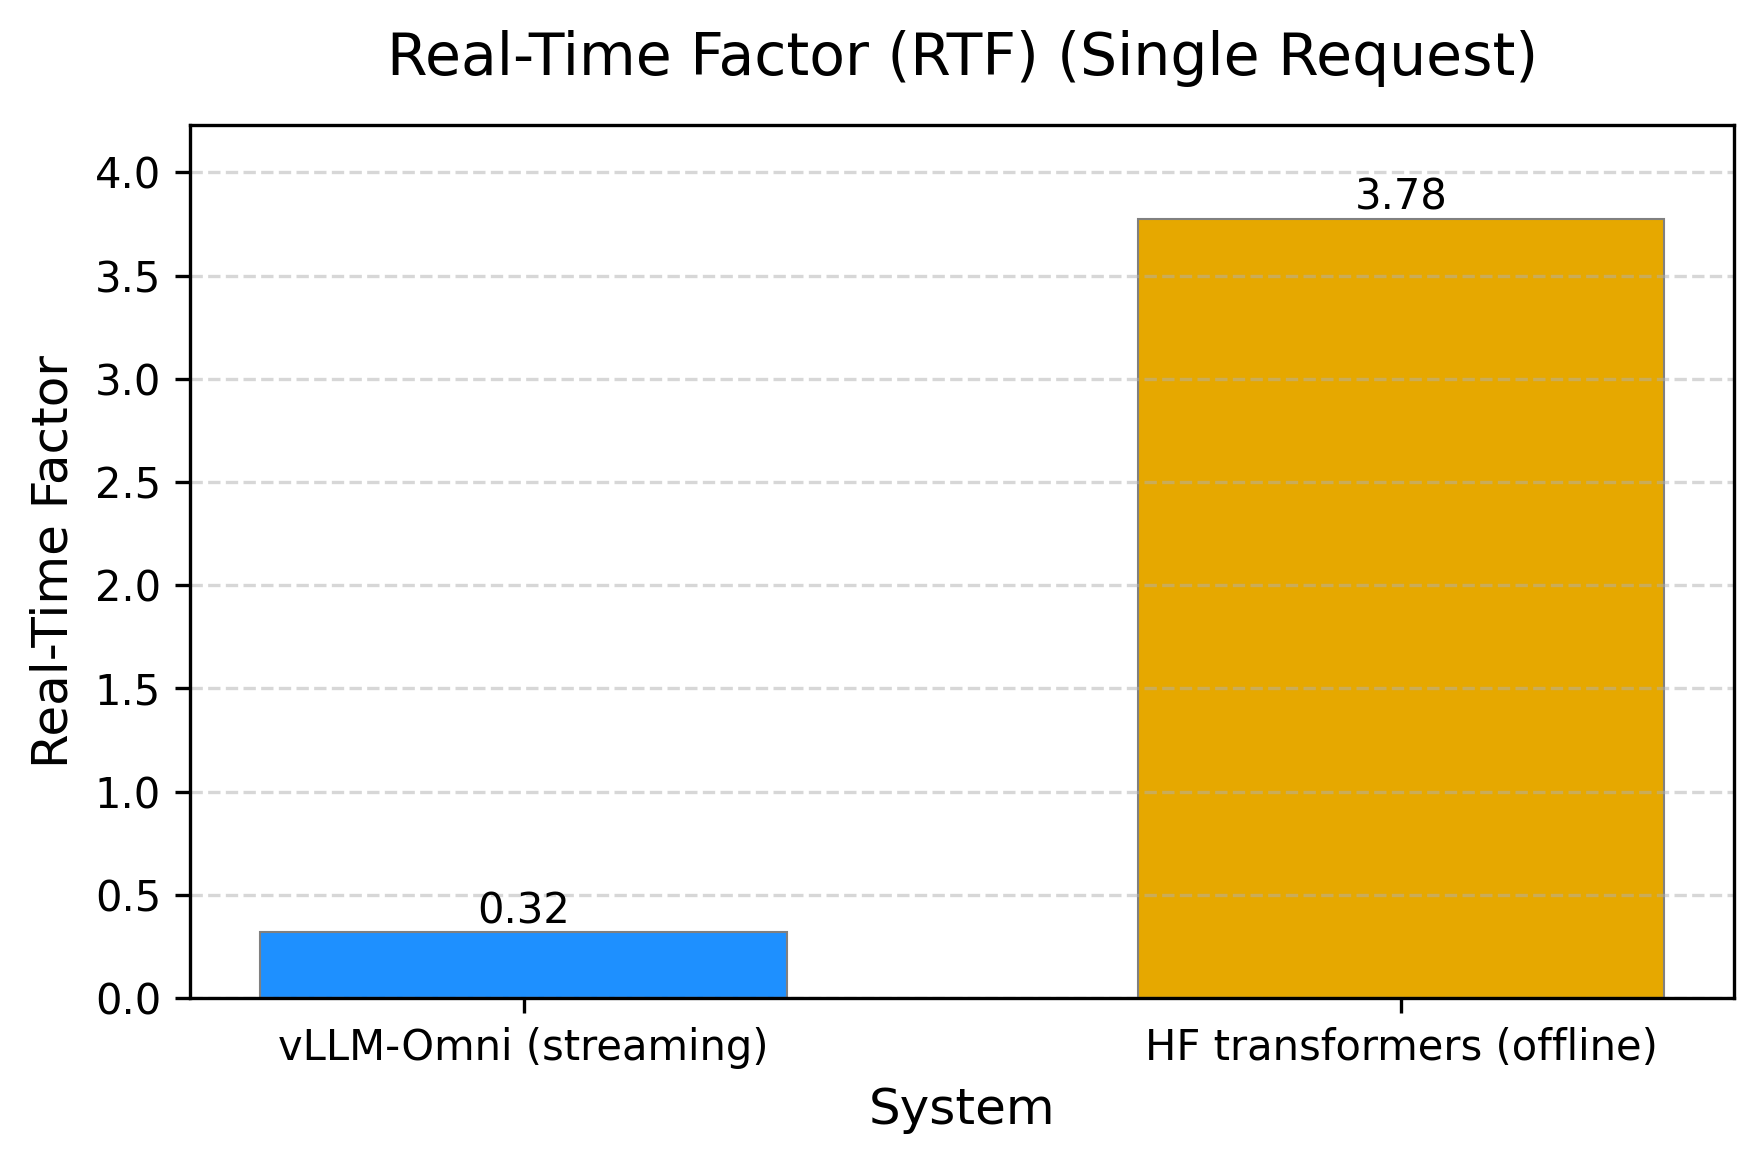
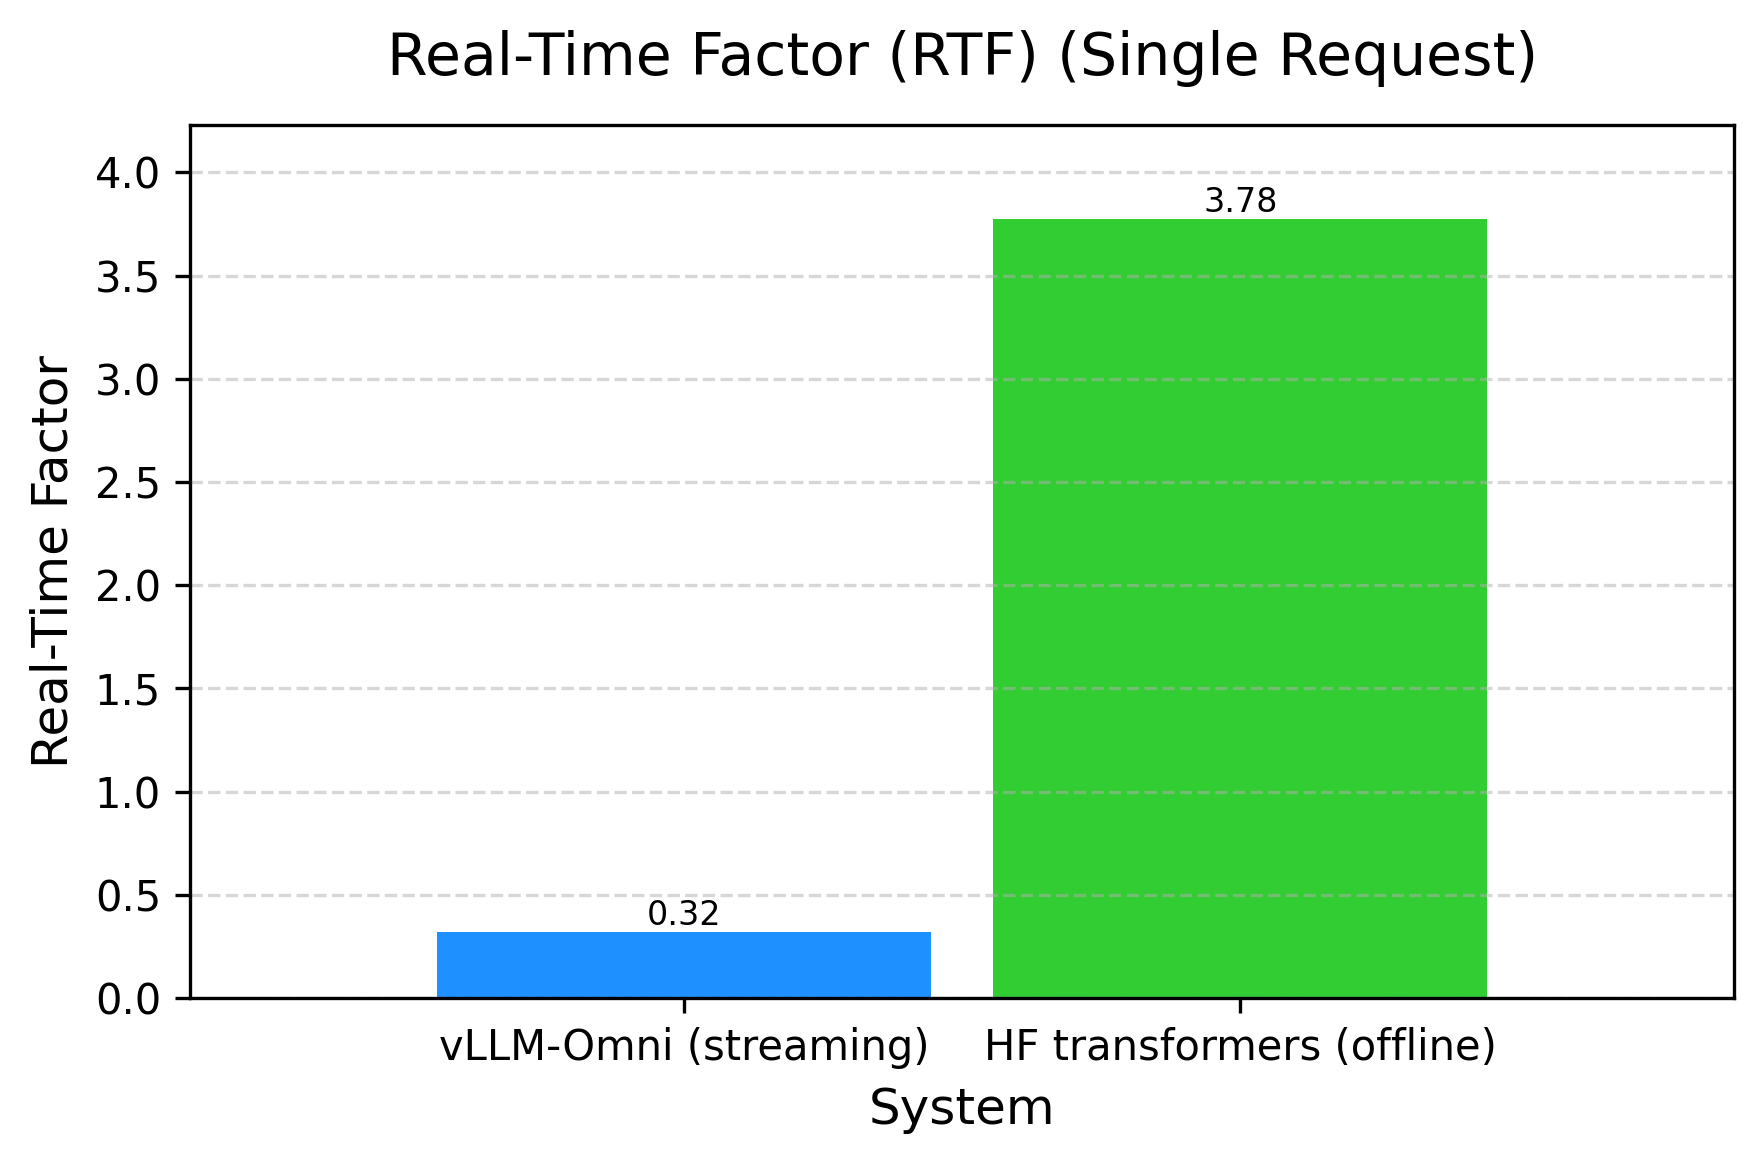
qwen3 omni blog

Changed region(s): [[0.5612, 0.1546, 0.9666, 0.9278], [0.1247, 0.7732, 0.53, 0.9278]]

diff --git a/docs/design/plot_summary_line_charts.py b/docs/design/plot_summary_line_charts.py
@@ -1,0 +1,106 @@
+# -*- coding: utf-8 -*-
+"""Generate summary line charts: E2EL / TTFP / RTF vs stacked features, with concurrency 1/4/10."""
+import matplotlib
+matplotlib.use("Agg")
+
+import matplotlib.pyplot as plt
+import numpy as np
+from pathlib import Path
+from matplotlib.ticker import FuncFormatter
+
+FIG_DIR = Path(__file__).resolve().parent / "figures"
+FIG_DIR.mkdir(parents=True, exist_ok=True)
+
+# 横轴：Baseline → Batch → CUDA Graph → Async Chunk + Streaming
+X_LABELS = ["Baseline", "Batch", "CUDA Graph", "Async Chunk\n+ Streaming Output"]
+x = np.arange(len(X_LABELS))
+
+# 与 plot_comparison 一致：蓝、绿，再加一色区分三条线
+COLORS = ["#1E90FF", "#32CD32", "#E67E22"]  # blue, green, orange
+MARKERS = ["o", "s", "^"]
+CONCURRENCIES = [1, 4, 10]
+
+# 按 (stage_order, concurrency) 从 plot_comparison 数据整理
+# stage 顺序: Baseline, Batch, Batch+CG, Async Chunk
+DATA = {
+    "E2EL_ms": {
+        1: [325865.36, 258556.1, 67381.19, 60435.5],
+        4: [988038.79, 259586.2, 98981.04, 90969.2],
+        10: [1523135.4, 262400.45, 153351.92, 130681.82],
+    },
+    "TTFP_ms": {
+        1: [325517.15, 258256.7, 67120.89, 1263.0],
+        4: [987707.63, 259342.8, 98678.91, 3174.99],
+        10: [1522803.53, 262157.5, 152792.3, 12262.39],
+    },
+    "RTF": {
+        1: [1.52, 1.48, 0.43, 0.33],
+        4: [6.66, 1.62, 0.46, 0.43],
+        10: [6.94, 2.18, 0.88, 0.74],
+    },
+}
+
+
+def y_formatter_ms(x_val, pos):
+    if x_val >= 1000:
+        return f"{x_val:,.0f}"
+    return f"{x_val:.2f}"
+
+
+def make_line_chart(ylabel, data_by_conc, unit_label, outpath, y_formatter=None):
+    fig, ax = plt.subplots(figsize=(6, 4))
+    all_vals = [v for vals in data_by_conc.values() for v in vals]
+    y_max = max(all_vals) * 1.12
+
+    for idx, conc in enumerate(CONCURRENCIES):
+        vals = data_by_conc[conc]
+        ax.plot(
+            x,
+            vals,
+            color=COLORS[idx],
+            marker=MARKERS[idx],
+            markersize=7,
+            linewidth=2,
+            label=f"Concurrency {conc}",
+        )
+    ax.set_xticks(x)
+    ax.set_xticklabels(X_LABELS)
+    ax.set_ylabel(ylabel, fontsize=12)
+    ax.set_xlabel("Stacked optimization", fontsize=12)
+    if y_formatter:
+        ax.yaxis.set_major_formatter(FuncFormatter(y_formatter))
+    ax.grid(axis="y", linestyle="--", alpha=0.5)
+    ax.set_ylim(0, y_max)
+    ax.legend(loc="upper right", fontsize=9, frameon=True)
+    plt.tight_layout()
+    plt.savefig(outpath, dpi=300, bbox_inches="tight")
+    plt.close()
+    print(f"Saved {outpath}")
+
+
+def main():
+    make_line_chart(
+        "End-to-End Latency (ms)",
+        DATA["E2EL_ms"],
+        "ms",
+        FIG_DIR / "Summary_E2EL_ms_vs_features.png",
+        y_formatter=y_formatter_ms,
+    )
+    make_line_chart(
+        "Time to First Audio (ms)",
+        DATA["TTFP_ms"],
+        "ms",
+        FIG_DIR / "Summary_TTFP_ms_vs_features.png",
+        y_formatter=y_formatter_ms,
+    )
+    make_line_chart(
+        "Real-Time Factor",
+        DATA["RTF"],
+        "",
+        FIG_DIR / "Summary_RTF_vs_features.png",
+    )
+    print("All summary line charts saved to docs/design/figures/")
+
+
+if __name__ == "__main__":
+    main()

diff --git a/docs/design/plot_vllm_omni_vs_transformers.py b/docs/design/plot_vllm_omni_vs_transformers.py
@@ -4,17 +4,26 @@ import matplotlib
 matplotlib.use("Agg")
 
 import matplotlib.pyplot as plt
+import numpy as np
 from pathlib import Path
 
-# vLLM-Omni blue, HF transformers yellow for clear contrast
-COLORS = ["#1E90FF", "#E6A800"]  # blue, yellow/amber
+# 与 plot_comparison.py 一致
+COLORS = ["#1E90FF", "#32CD32"]
 FIG_DIR = Path(__file__).resolve().parent / "figures"
 FIG_DIR.mkdir(parents=True, exist_ok=True)
+WIDTH = 0.32
+# 两柱间距调小：offset 小则两柱更近
+GAP = 0.04
+OFFSET = WIDTH / 2 + GAP / 2  # ≈0.18，两柱中心距 0.36
 
 
 def make_chart(title, ylabel, labels, values, outpath, use_log_scale=False):
     fig, ax = plt.subplots(figsize=(6, 4))
-    bars = ax.bar(labels, values, color=COLORS, width=0.6, edgecolor="gray", linewidth=0.5)
+    x_pos = np.array([-OFFSET, OFFSET])
+    bars = ax.bar(x_pos, values, width=WIDTH, color=COLORS)
+    ax.set_xticks(x_pos)
+    ax.set_xticklabels(labels)
+    ax.set_xlim(-0.5, 0.5)
     ax.set_title(title, fontsize=14, pad=12)
     ax.set_ylabel(ylabel, fontsize=12)
     ax.set_xlabel("System", fontsize=12)
@@ -38,7 +47,7 @@ def make_chart(title, ylabel, labels, values, outpath, use_log_scale=False):
             label,
             ha="center",
             va="bottom",
-            fontsize=10,
+            fontsize=8,
         )
     plt.tight_layout()
     plt.savefig(outpath, dpi=300, bbox_inches="tight")

diff --git a/plot_comparison.py b/plot_comparison.py
@@ -134,9 +134,11 @@ for g1, g2 in groups:
         plt.xticks(x, [1,4,10])
         plt.xlim(-0.6, 2.6)
 
-        # 图例在下方
+        # 图例在下方；Async Chunk 组显示为 + Streaming Output 与 blog 一致
+        legend_g1 = g1
+        legend_g2 = "Batch + CUDA Graph + Async Chunk + Streaming Output" if g2 == "Batch + CUDA Graph + Async Chunk" else g2
         plt.legend(
-            [g1, g2],
+            [legend_g1, legend_g2],
             loc="upper center",
             bbox_to_anchor=(0.5, -0.18),
             ncol=2,

diff --git a/docs/design/qwen3_omni_blog.md b/docs/design/qwen3_omni_blog.md
@@ -27,6 +27,13 @@ Compared with **Hugging Face Transformers** (offline, single request), vLLM-Omni
 
 Compared with the baseline (vLLM-Omni without these optimizations), the stacked setup (Batching + CUDA Graph + Async Chunk + Streaming Output) achieves:
 
+<table><tr>
+<td><img src="figures/Summary_E2EL_ms_vs_features.png" alt="E2EL (ms) vs stacked features" width="100%"/></td>
+<td><img src="figures/Summary_TTFP_ms_vs_features.png" alt="TTFP (ms) vs stacked features" width="100%"/></td>
+<td><img src="figures/Summary_RTF_vs_features.png" alt="RTF vs stacked features" width="100%"/></td>
+</tr></table>
+*X-axis: Baseline → Batch → CUDA Graph → Async Chunk + Streaming Output; each step adds one optimization on top of the previous. Each line is a concurrency level (1, 4, or 10).*
+
 - **E2E latency (E2EL) reduction**: **~91%** at concurrency 10 (1,523,135 ms → 130,682 ms); **~81%** at concurrency 1 (325,865 ms → 60,436 ms)
 - **Audio TTFP reduction**: **~99.2%** at concurrency 10 (1,522,804 ms → 12,262 ms); **~99.6%** at concurrency 1 (325,517 ms → 1,263 ms)
 - **Real-time factor (RTF)**: **~89%** reduction at concurrency 10 (6.94 → 0.74), i.e. **~9×** higher effective throughput; **~78%** at concurrency 1 (1.52 → 0.33)
